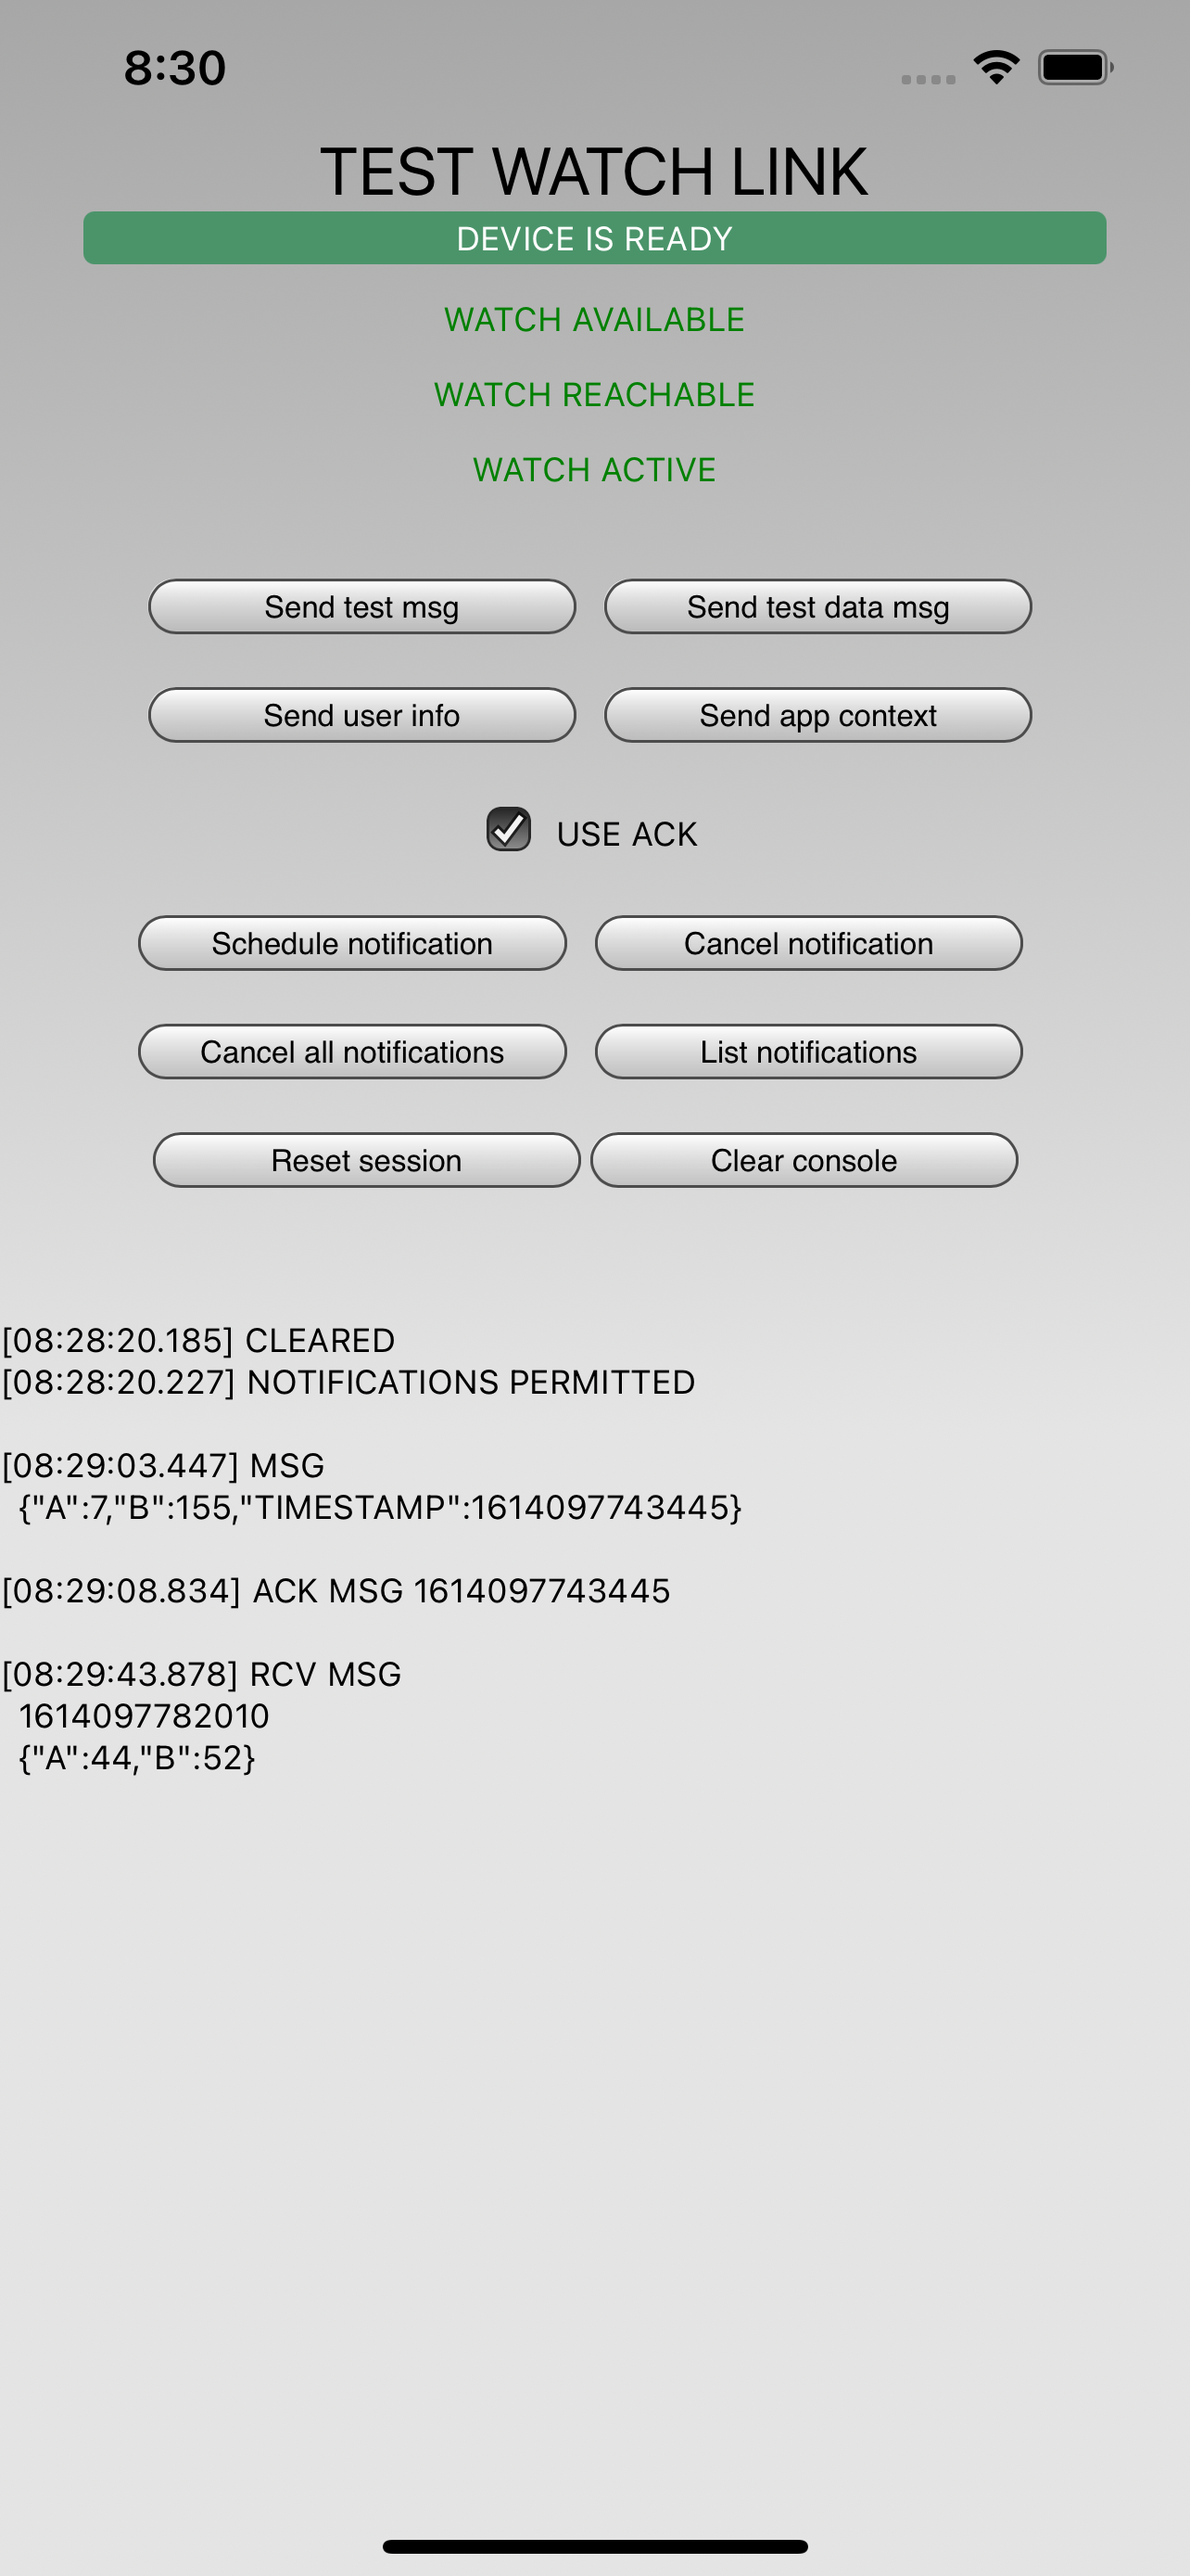
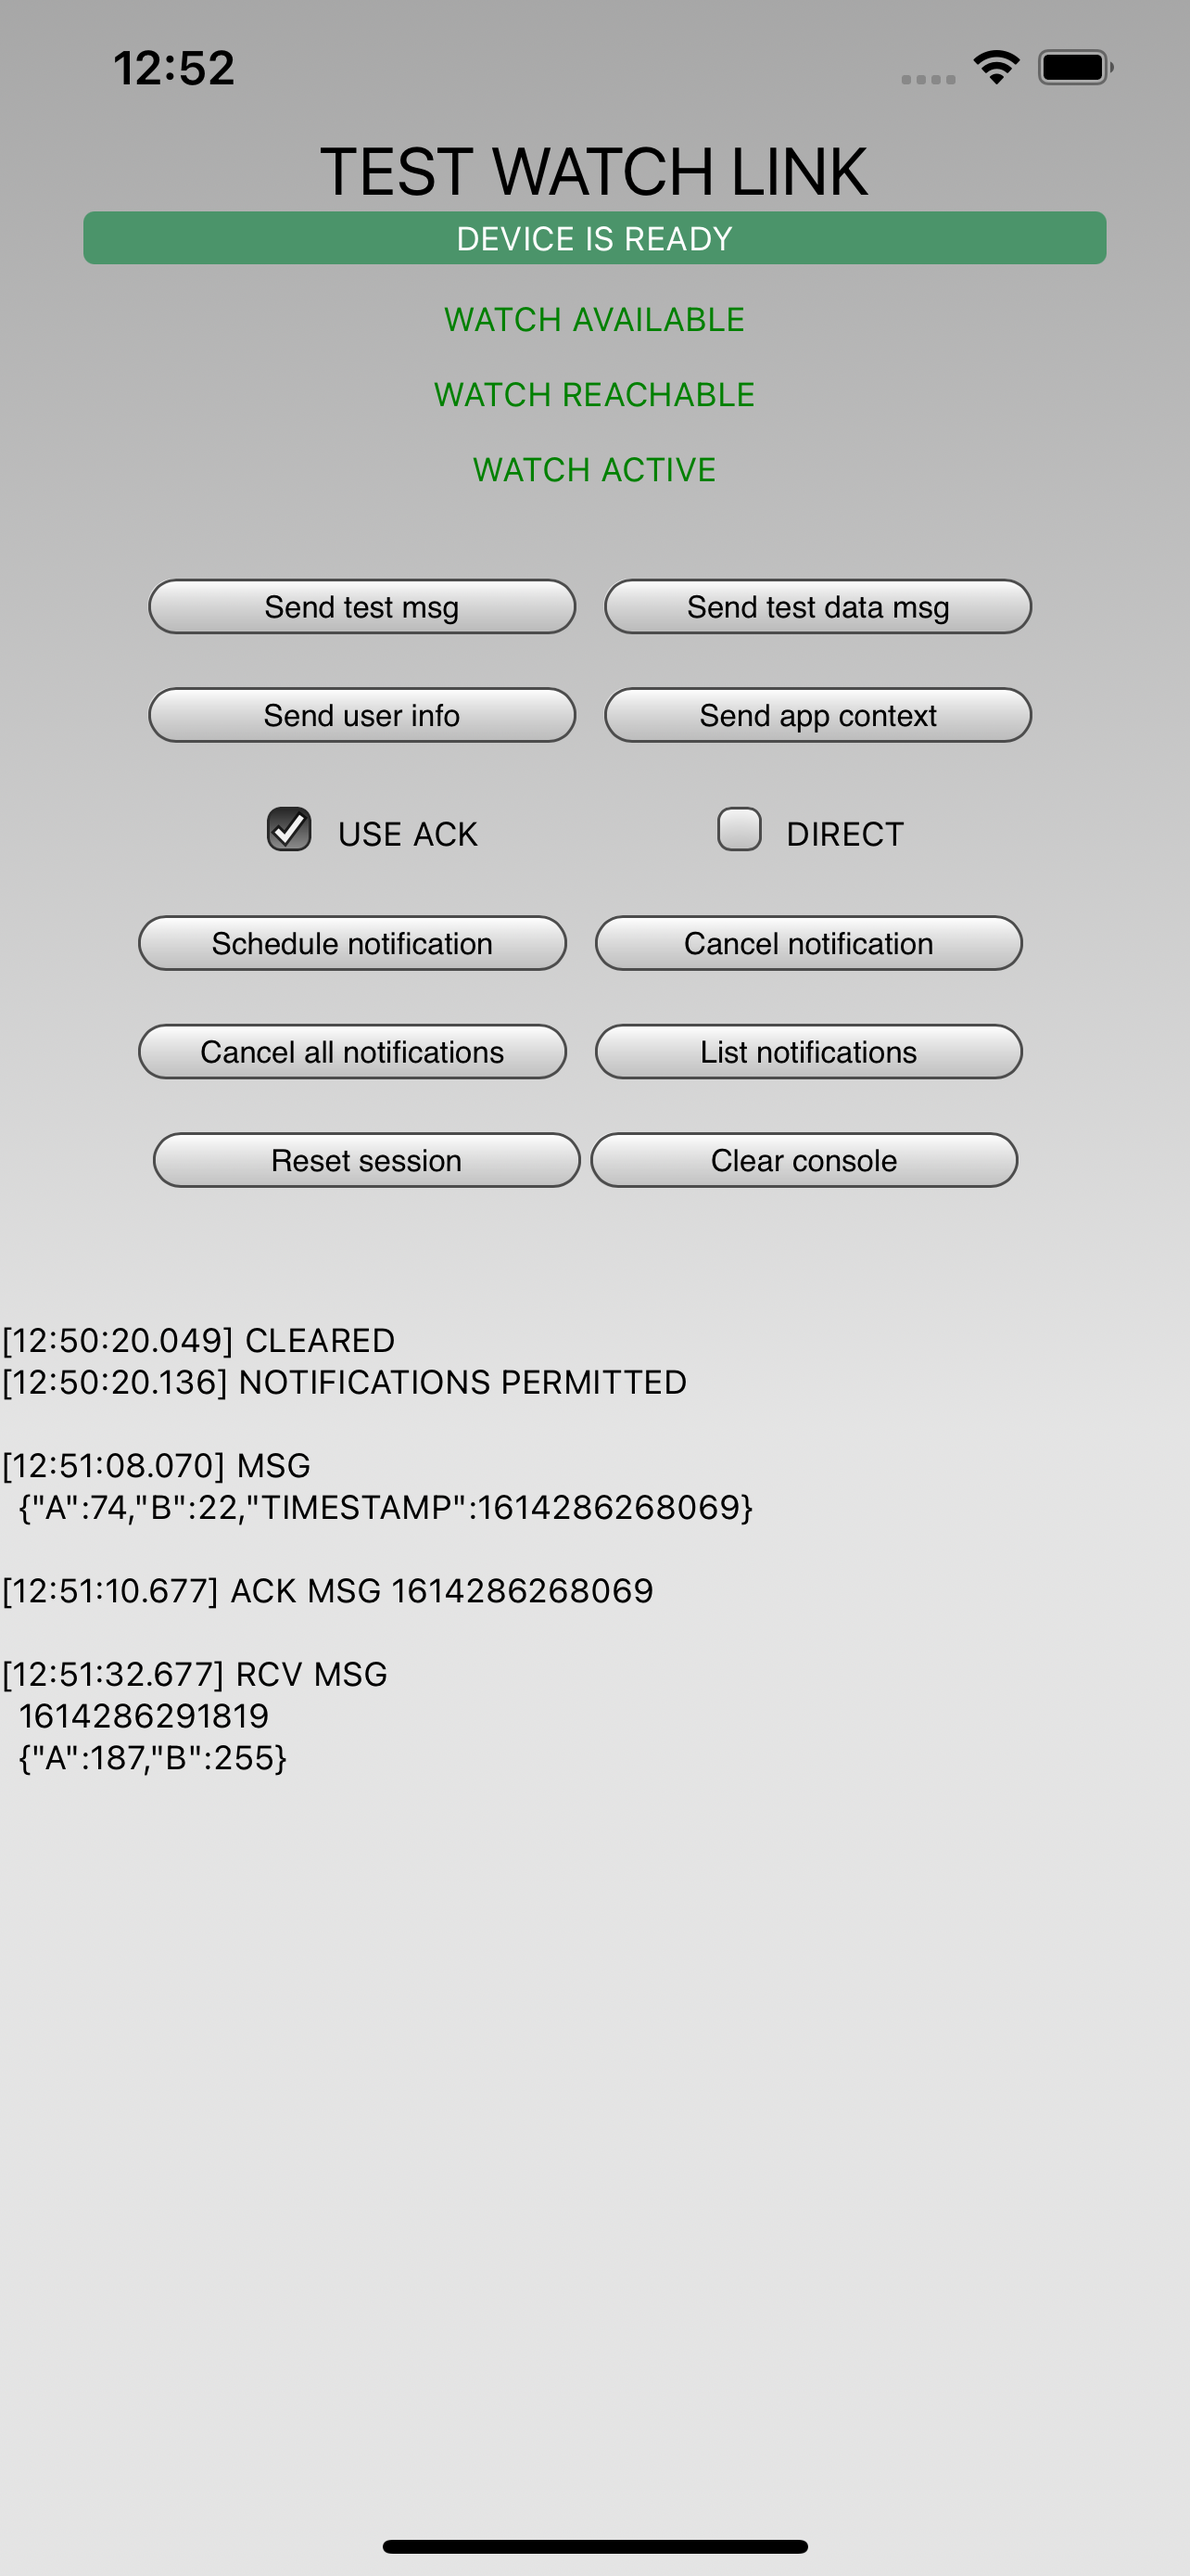
Fixes for 1.0.1

diff --git a/src/ios/WatchLink.swift b/src/ios/WatchLink.swift
@@ -905,30 +905,30 @@ class WatchLink: CDVPlugin, WCSessionDelegate, UNUserNotificationCenterDelegate 
 		}
 	}
 	
-	func handleNativeMessage(_ message: [String : Any],
+	func handleDirectMessage(_ message: [String : Any],
 		_ replyHandler: @escaping ([String : Any]) -> Void) 
 	{
 		replyHandler(message)
 		if (receivedMessageCallbackId != nil) {
 			let result = CDVPluginResult(status: CDVCommandStatus_OK, 
-				messageAs: ["msgType": "", "msg": message])
+				messageAs: ["msgType": "WCSESSION", "msg": message])
 			result!.setKeepCallbackAs(true)
 			self.commandDelegate.send(result, callbackId: receivedMessageCallbackId)
 		}
 		else {
-			sendLog("didReceiveNativeMessage not bound")
+			sendErrorLog("didReceiveDirectMessage not bound")
 		}
 	}
 	
-    func handleNativeMessageNoAck(_ message: [String : Any]) {
+    func handleDirectMessageNoAck(_ message: [String : Any]) {
 		if (receivedMessageCallbackId != nil) {
 			let result = CDVPluginResult(status: CDVCommandStatus_OK, 
-				messageAs: ["msgType": "", "msg": message])
+				messageAs: ["msgType": "WCSESSION", "msg": message])
 			result!.setKeepCallbackAs(true)
 			self.commandDelegate.send(result, callbackId: receivedMessageCallbackId)
 		}
 		else {
-			sendLog("didReceiveNativeMessage not bound")
+			sendErrorLog("didReceiveDirectMessage not bound")
 		}
 	}
     
@@ -941,28 +941,28 @@ class WatchLink: CDVPlugin, WCSessionDelegate, UNUserNotificationCenterDelegate 
 		else {
 			sendLog("didReceiveMessage msgType not found message=" + 
 				String(describing: message))
-			handleNativeMessage(message, replyHandler)
+			handleDirectMessage(message, replyHandler)
 			return
 		}
 		guard let msgBody = message["msgBody"]
 		else {
 			sendLog("didReceiveMessage msgBody not found message=" + 
 				String(describing: message))
-			handleNativeMessage(message, replyHandler)
+			handleDirectMessage(message, replyHandler)
 			return
 		}
 		guard let timestamp = message["timestamp"] as? Int64
 		else {
 			sendLog("didReceiveMessage timestamp not found message=" + 
 				String(describing: message))
-			handleNativeMessage(message, replyHandler)
+			handleDirectMessage(message, replyHandler)
 			return
 		}
 		guard let session = message["session"] as? Int64
 		else {
 			sendLog("didReceiveMessage session not found message=" + 
 				String(describing: message))
-			handleNativeMessage(message, replyHandler)
+			handleDirectMessage(message, replyHandler)
 			return
 		}
 		replyHandler(["timestamp" : timestamp])
@@ -989,28 +989,28 @@ class WatchLink: CDVPlugin, WCSessionDelegate, UNUserNotificationCenterDelegate 
 		else {
 			sendLog("didReceiveMessage msgType not found message=" + 
 				String(describing: message))
-			handleNativeMessageNoAck(message)
+			handleDirectMessageNoAck(message)
 			return
 		}
 		guard let msgBody = message["msgBody"]
 		else {
 			sendLog("didReceiveMessage msgBody not found message=" + 
 				String(describing: message))
-			handleNativeMessageNoAck(message)
+			handleDirectMessageNoAck(message)
 			return
 		}
 		guard let session = message["session"] as? Int64
 		else {
 			sendLog("didReceiveMessage SESSION not found message=" + 
 				String(describing: message))
-			handleNativeMessageNoAck(message)
+			handleDirectMessageNoAck(message)
 			return
 		}
         guard let timestamp = message["timestamp"] as? Int64
         else {
             sendLog("didReceiveMessage timestamp not found message=" +
                 String(describing: message))
-            handleNativeMessageNoAck(message)
+            handleDirectMessageNoAck(message)
             return
         }
         if (!msgType.matches("^WATCH.*LOG$")) {
@@ -1040,10 +1040,10 @@ class WatchLink: CDVPlugin, WCSessionDelegate, UNUserNotificationCenterDelegate 
 			let result = CDVPluginResult(status: CDVCommandStatus_OK, messageAsArrayBuffer: message)
 			result!.setKeepCallbackAs(true)
 			self.commandDelegate.send(result, callbackId: receivedDataMessageCallbackId)
-			sendLog("didReceiveNativeDataMessage")
+			sendLog("didReceiveDirectDataMessage")
 		}
 		else {
-			sendLog("didReceiveNativeDataMessage handler not bound")
+			sendErrorLog("didReceiveDirectDataMessage handler not bound")
 		}
 	}
 	
@@ -1052,10 +1052,10 @@ class WatchLink: CDVPlugin, WCSessionDelegate, UNUserNotificationCenterDelegate 
 			let result = CDVPluginResult(status: CDVCommandStatus_OK, messageAsArrayBuffer: message)
 			result!.setKeepCallbackAs(true)
 			self.commandDelegate.send(result, callbackId: receivedDataMessageCallbackId)
-			sendLog("didReceiveNativeDataMessageNoAck")
+			sendLog("didReceiveDirectDataMessageNoAck")
 		}
 		else {
-			sendLog("didReceiveNativeDataMessageNoAck handler not bound")
+            sendErrorLog("didReceiveDirectDataMessage handler not bound")
 		}
 	}
 
@@ -1135,15 +1135,14 @@ class WatchLink: CDVPlugin, WCSessionDelegate, UNUserNotificationCenterDelegate 
 		self.commandDelegate.send(result, callbackId: receivedUserInfoCallbackId)
 	}
 	
-	private func handleNativeUserInfo(_ userInfo: [String: Any]) {
+	private func handleDirectUserInfo(_ userInfo: [String: Any]) {
 		if (receivedUserInfoCallbackId != nil) {
 			let result = CDVPluginResult(status: CDVCommandStatus_OK, messageAs: userInfo)
 			result!.setKeepCallbackAs(true)
 			self.commandDelegate.send(result, callbackId: receivedUserInfoCallbackId)
-			sendLog("handleNativeUserInfo callback executed");
 		}
 		else {
-			sendErrorLog("handleNativeUserInfo not bound: userInfo = " + 
+			sendErrorLog("handleDirectUserInfo not bound: userInfo = " +
 				String(describing: userInfo))
 		}
 	}
@@ -1154,21 +1153,21 @@ class WatchLink: CDVPlugin, WCSessionDelegate, UNUserNotificationCenterDelegate 
 		else {
 			sendLog("didReceiveUserInfo TIMESTAMP not found userInfo=" + 
 				String(describing: userInfo))
-			handleNativeUserInfo(userInfo)
+			handleDirectUserInfo(userInfo)
 			return
 		}
 		guard let ack = userInfo["ACK"] as? Bool
 		else {
 			sendLog("didReceiveUserInfo ACK not found userInfo=" + 
 				String(describing: userInfo))
-			handleNativeUserInfo(userInfo)
+			handleDirectUserInfo(userInfo)
 			return
 		}
 		guard let session = userInfo["SESSION"] as? Int64
 		else {
 			sendLog("didReceiveUserInfo SESSION not found userInfo=" + 
 				String(describing: userInfo))
-			handleNativeUserInfo(userInfo)
+			handleDirectUserInfo(userInfo)
 			return
 		}
 		if (session != 0 && session != sessionID) {
@@ -1286,15 +1285,14 @@ class WatchLink: CDVPlugin, WCSessionDelegate, UNUserNotificationCenterDelegate 
 		self.commandDelegate.send(result, callbackId: receivedContextCallbackId)
 	}
 	
-	private func handleNativeContext(_ context: [String: Any]) {
+	private func handleDirectContext(_ context: [String: Any]) {
 		if (receivedContextCallbackId != nil) {
 			let result = CDVPluginResult(status: CDVCommandStatus_OK, messageAs: context)
 			result!.setKeepCallbackAs(true)
 			self.commandDelegate.send(result, callbackId: receivedContextCallbackId)
-			sendLog("handleNativeContext callback executed");
 		}
 		else {
-			sendErrorLog("handleNativeContext not bound: userInfo = " + 
+			sendErrorLog("handleDirectContext not bound: userInfo = " +
 				String(describing: context))
 		}
 	}
@@ -1307,21 +1305,21 @@ class WatchLink: CDVPlugin, WCSessionDelegate, UNUserNotificationCenterDelegate 
 		else {
 			sendLog("didReceiveApplicationContext TIMESTAMP not found " +
 				"applicationContext=" + String(describing: applicationContext))
-			handleNativeContext(applicationContext)
+			handleDirectContext(applicationContext)
 			return
 		}
 		guard let ack = applicationContext["ACK"] as? Bool
 		else {
 			sendLog("didReceiveApplicationContext ACK not found applicationContext=" + 
 				String(describing: applicationContext))
-			handleNativeContext(applicationContext)
+			handleDirectContext(applicationContext)
 			return
 		}
 		guard let session = applicationContext["SESSION"] as? Int64
 		else {
 			sendLog("didReceiveApplicationContext SESSION not found applicationContext=" +
 			String(describing: applicationContext))
-			handleNativeContext(applicationContext)
+			handleDirectContext(applicationContext)
 			return
 		}
 		if (session != 0 && session != sessionID) {
@@ -1890,6 +1888,86 @@ class WatchLink: CDVPlugin, WCSessionDelegate, UNUserNotificationCenterDelegate 
 			addMessage(msgType: "SETPRINTLOGLEVEL", msg: watchPrintLogLevel, timestamp: newTimestamp(), watchMessageQueue)
 		}
 	}
+
+    var lastWCSessionCommandCallback: String!
+    
+    @objc(wcSessionCommand:)
+    func wcSessionCommand(command: CDVInvokedUrlCommand) {
+        let session = WCSession.default
+        guard let op = command.argument(at: 0) as? String
+        else {
+            sendErrorLog("wcSessionCommand: op data error")
+            return
+        }
+        // avoid memory leak from callback hanging around
+        if (lastWCSessionCommandCallback != nil) {
+            cancelCallback(lastWCSessionCommandCallback)
+            lastWCSessionCommandCallback = nil
+        }
+        switch(op) {
+        case "sendMessage":
+            guard let payload = command.argument(at: 1) as? [String: Any]
+            else {
+                sendErrorLog("wcSessionCommand: payload data error")
+                return
+            }
+            lastWCSessionCommandCallback = command.callbackId
+            session.sendMessage(payload, replyHandler: nil,
+                        errorHandler:
+                            { (response: Error) in
+                                self.sendErrorLog("wcSessionCommand error " + String(describing: response))
+                                if (self.lastWCSessionCommandCallback != nil) {
+                                    let result = CDVPluginResult(status: CDVCommandStatus_ERROR, messageAs: "wcSessionCommand error " + String(describing: response))
+                                    self.commandDelegate.send(result, callbackId: self.lastWCSessionCommandCallback)
+                                    self.lastWCSessionCommandCallback = nil
+                                }
+                            })
+        case "sendDataMessage":
+            guard let payload = command.argument(at: 1) as? Data
+            else {
+                sendErrorLog("wcSessionCommand: payload data error")
+                return
+            }
+            lastWCSessionCommandCallback = command.callbackId
+            session.sendMessageData(payload, replyHandler: nil,
+                        errorHandler:
+                            { (response: Error) in
+                                self.sendErrorLog("wcSessionCommand error " + String(describing: response))
+                                if (self.lastWCSessionCommandCallback != nil) {
+                                    let result = CDVPluginResult(status: CDVCommandStatus_ERROR, messageAs: "wcSessionCommand error " + String(describing: response))
+                                    self.commandDelegate.send(result, callbackId: self.lastWCSessionCommandCallback)
+                                    self.lastWCSessionCommandCallback = nil
+                                }
+                            })
+        case "updateUserInfo":
+            guard let payload = command.argument(at: 1) as? [String: Any]
+            else {
+                sendErrorLog("wcSessionCommand: payload data error")
+                return
+            }
+            session.transferUserInfo(payload)
+        case "updateContext":
+            guard let payload = command.argument(at: 1) as? [String: Any]
+            else {
+                sendErrorLog("wcSessionCommand: payload data error")
+                return
+            }
+            lastWCSessionCommandCallback = command.callbackId
+            do  {
+                try session.updateApplicationContext(payload)
+            }
+            catch {
+                sendErrorLog("wcSessionCommand: updateContext error \(error)")
+                if (self.lastWCSessionCommandCallback != nil) {
+                    let result = CDVPluginResult(status: CDVCommandStatus_ERROR, messageAs: "wcSessionCommand: updateContext error \(error)")
+                    self.commandDelegate.send(result, callbackId: self.lastWCSessionCommandCallback)
+                    self.lastWCSessionCommandCallback = nil
+                }
+            }
+        default:
+            sendErrorLog("wcSessionCommand: op data error " + op)
+        }
+    }
 }
 
 // These funcs can be called to send a log to the cordova console from iOS swift
@@ -1958,3 +2036,9 @@ extension String {
 			range: nil, locale: nil) != nil
 	}
 }
+
+
+
+
+
+

diff --git a/Extension/WatchLinkExtensionDelegate.swift b/Extension/WatchLinkExtensionDelegate.swift
@@ -55,7 +55,8 @@ let reservedMsgTypes = "^(" +
 	"UPDATEDUSERINFO" + "|" +
 	"WATCHLOG" + "|" +
 	"WATCHERRORLOG" + "|" +
-	"WATCHAPPLOG" + ")$"
+	"WATCHAPPLOG" +
+    "WCSESSION" + ")$"
 
 var watchInitialized = false
 
@@ -713,14 +714,14 @@ class WatchLinkExtensionDelegate: NSObject, WKExtensionDelegate,
 		else {
 			printLog("didReceiveMessage SESSION not found message=" + 
 				String(describing: message))
-			defaultAppMessageHandler("", message)
+			defaultAppMessageHandler("WCSESSION", message)
 			return
 		}
         guard let msgType = message["msgType"] as? String
         else {
             printLog("didReceiveMessage msgType not found message=" +
                 String(describing: message))
-			defaultAppMessageHandler("", message)
+			defaultAppMessageHandler("WCSESSION", message)
             return
         }
 		if (session < sessionID) {
@@ -739,7 +740,7 @@ class WatchLinkExtensionDelegate: NSObject, WKExtensionDelegate,
 		else {
 			printLog("didReceiveMessage msgBody not found message=" + 
 				String(describing: message))
-			defaultAppMessageHandler("", message)
+			defaultAppMessageHandler("WCSESSION", message)
 			return
 		}
 		switch msgType {
@@ -1022,3 +1023,5 @@ extension String {
 		return self.range(of: regex, options: .regularExpression, range: nil, locale: nil) != nil
 	}
 }
+
+

diff --git a/www/watchlink.js b/www/watchlink.js
@@ -463,7 +463,8 @@ function watchLink() {
 		"UPDATEDUSERINFO" + "|" +
 		"WATCHLOG" + "|" +
 		"WATCHERRORLOG" + "|" +
-		"WATCHAPPLOG" + ")$"
+		"WATCHAPPLOG" +
+        "WCSESSION" + ")$"
 	);
     
     /* 
@@ -2329,6 +2330,23 @@ function watchLink() {
         }
     }
     
+    this.wcSessionCommand = function(command, payload, error) {
+        if (typeof command !== 'string' || !/^(sendMessage|sendDataMessage|updateUserInfo|updateContext)$/.test(command)) {
+            _watchLink.errorLog('wcSessionCommand illegal command: ' + JSON.stringify(command));
+            return;
+        }
+        if (payload == null | typeof payload !== 'object') {
+            _watchLink.errorLog('wcSessionCommand illegal payload: ' + JSON.stringify(command));
+            return;
+        }
+        if (command === 'UpdateUserInfo') {
+            cordova.exec(null, null, 'WatchLink', 'wcSessionCommand', [command, payload]);
+        }
+        else {
+            cordova.exec(null, error, 'WatchLink', 'wcSessionCommand', [command, payload]);
+        }
+    };
+    
     function startLog() {
         _watchLink.log('STARTING logs');
         
@@ -2504,3 +2522,4 @@ function watchLink() {
         });
 }
 module.exports = new watchLink();
+
